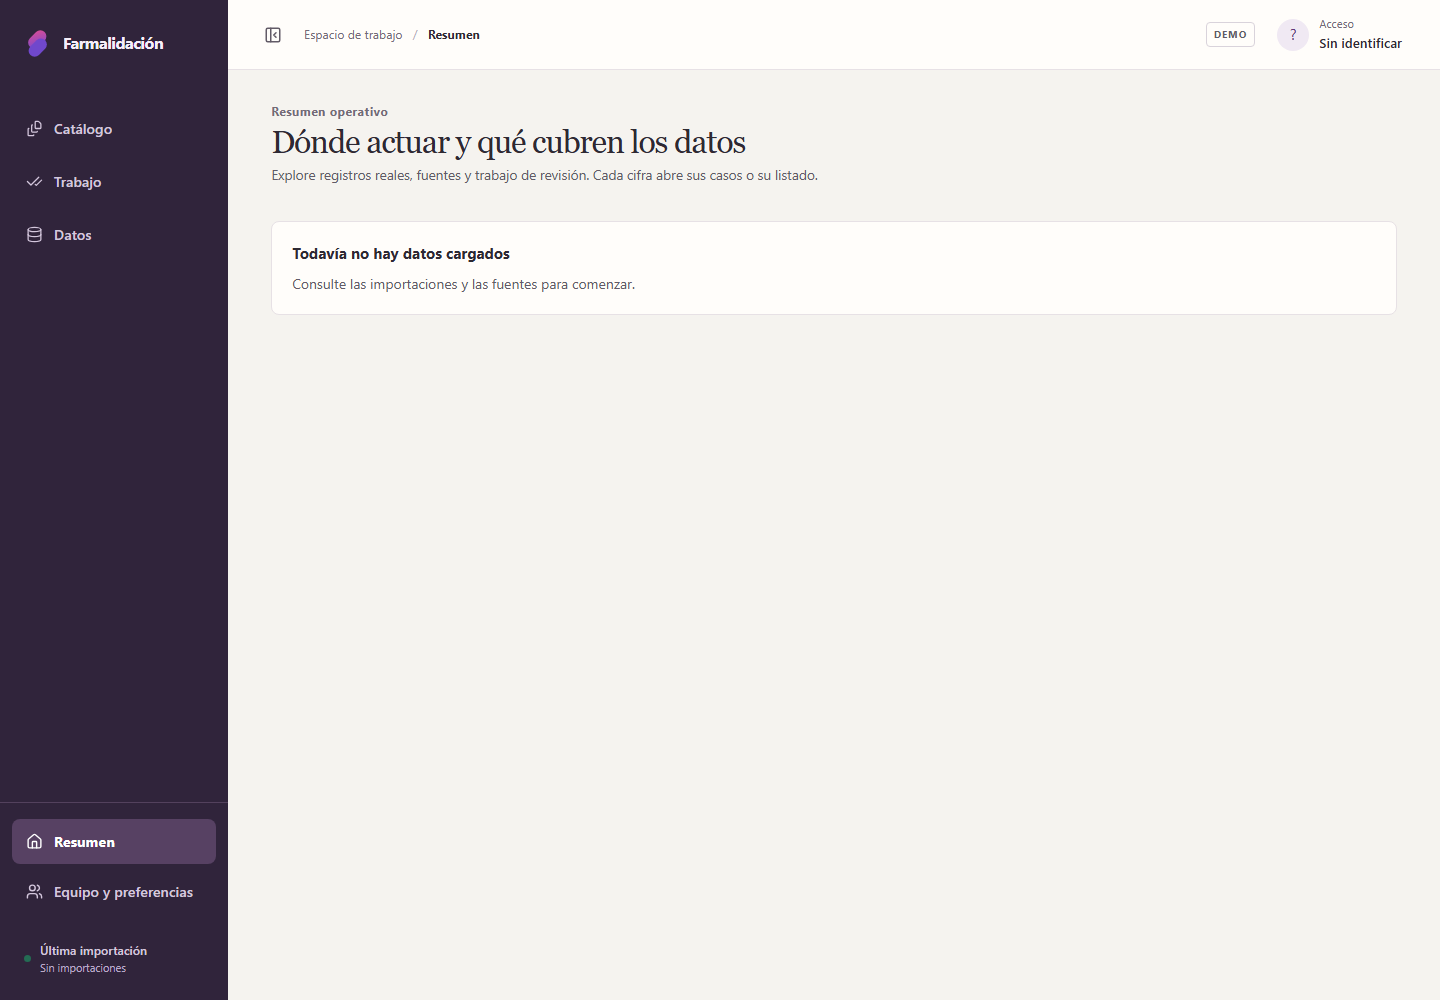
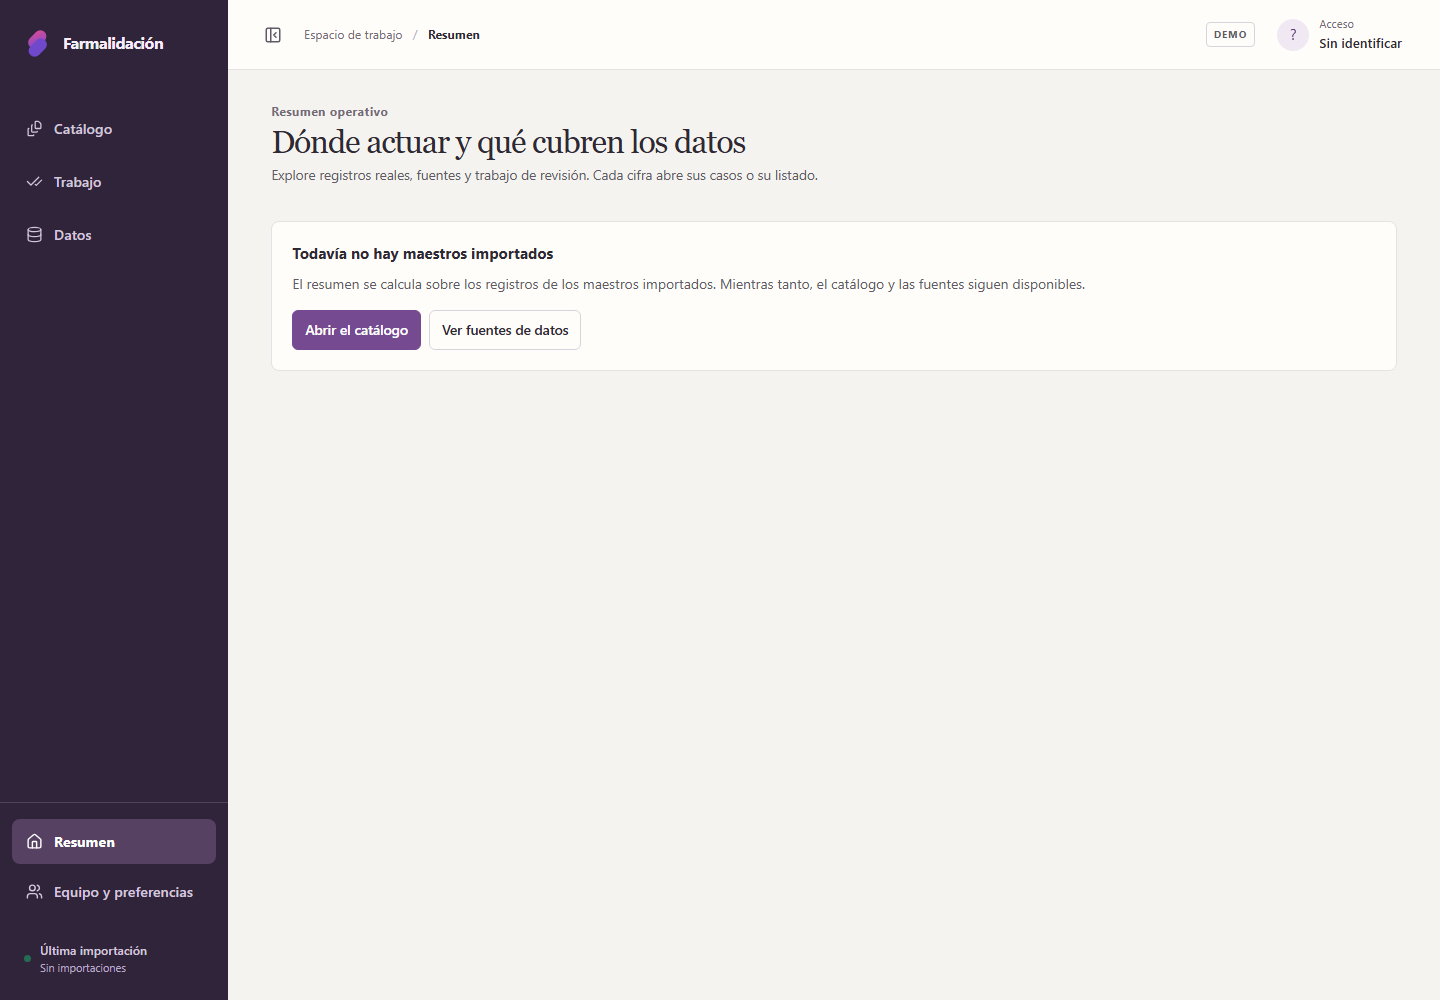
Unificar cabeceras, retornos y mensajes de error
Las fichas de identidad y de revisión comparten tipografía de título y
enlace de retorno. Los botones-enlace dejan de subrayarse. Los mensajes
genéricos del servidor HTTP («Not Found»…) se traducen antes de llegar a
la interfaz, la ficha no encontrada usa el estado de error común y el
resumen explica que se calcula sobre los maestros importados y ofrece
salidas al catálogo y a las fuentes.

Changed region(s): [[0.1875, 0.248, 0.75, 0.372]]

diff --git a/validador-fichas-tecnicas-repo-kit/frontend/src/api/client.ts b/validador-fichas-tecnicas-repo-kit/frontend/src/api/client.ts
@@ -73,6 +73,16 @@ export class ApiError extends Error {
   }
 }
 
+/**
+ * Mensajes por defecto del servidor HTTP, en inglés y sin contexto: aparecen
+ * cuando la ruta no existe en el backend desplegado, no cuando falta un dato.
+ */
+const GENERIC_HTTP_DETAILS: Record<string, string> = {
+  'Not Found': 'Este servicio no está disponible en el servidor actual.',
+  'Method Not Allowed': 'El servidor actual no admite esta operación.',
+  'Internal Server Error': 'Se ha producido un error inesperado en el servidor.',
+}
+
 async function request<T>(path: string, init?: RequestInit, publicRequest = false, timeoutMs = 30_000): Promise<T> {
   const baseUrl = requireApiBaseUrl()
   const controller = new AbortController()
@@ -97,7 +107,7 @@ async function request<T>(path: string, init?: RequestInit, publicRequest = fals
     let detail = 'Se ha producido un error inesperado.'
     try {
       const body = (await response.json()) as { detail?: string }
-      if (body.detail) detail = body.detail
+      if (body.detail) detail = GENERIC_HTTP_DETAILS[body.detail] ?? body.detail
     } catch {
       // Un cuerpo ilegible no debe ocultar el código de estado.
     }

diff --git a/validador-fichas-tecnicas-repo-kit/frontend/src/screens/DashboardScreen.tsx b/validador-fichas-tecnicas-repo-kit/frontend/src/screens/DashboardScreen.tsx
@@ -97,8 +97,9 @@ export function DashboardScreen() {
         description='Explore registros reales, fuentes y trabajo de revisión. Cada cifra abre sus casos o su listado.' />
       <AsyncBoundary loading={loading} error={error}
         empty={Boolean(data && data.total_records === 0 && !entityType && !sourceType && data.quarantined === 0 && data.diagnostics === 0)}
-        emptyTitle='Todavía no hay datos cargados'
-        emptyDetail='Consulte las importaciones y las fuentes para comenzar.'>
+        emptyTitle='Todavía no hay maestros importados'
+        emptyDetail='El resumen se calcula sobre los registros de los maestros importados. Mientras tanto, el catálogo y las fuentes siguen disponibles.'
+        emptyAction={<div className='state__actions'><a className='button button--primary' href='#/fichas'>Abrir el catálogo</a>{canReadSources && <a className='button' href='#/datos/fuentes'>Ver fuentes de datos</a>}</div>}>
         {data && <>
           <section className='dashboard-priorities' aria-label='Prioridades'>
             <h2>Atención ahora</h2>

diff --git a/validador-fichas-tecnicas-repo-kit/frontend/src/studio.css b/validador-fichas-tecnicas-repo-kit/frontend/src/studio.css
@@ -664,7 +664,6 @@ select option { color: var(--ink); background: var(--surface); }
 .catalog-summary__values dt { color: var(--ink-faint); font-size: .75rem; margin-bottom: 5px; }
 .catalog-summary__values dd { margin: 0; font-size: 1rem; }
 .app-shell .catalog-editor[hidden], .app-shell .catalog-summary[hidden] { display: none; }
-.app-shell .catalog-record .screen__head h1 { font-family: var(--font-ui); font-size: 1.5rem; font-weight: 600; letter-spacing: -.025em; }
 .app-shell .catalog-cima, .app-shell .review-workspace { color: var(--ink); }
 .app-shell :is(.catalog-cima__text, .source-group, .record-dialog, .record-dialog__header, .catalog-relations li button, .sources__evidence, .reviewer-select__trigger, .reviewer-select__menu) { background: var(--surface); color: var(--ink); }
 .app-shell :is(.catalog-cima__section, .field-row, .queue-toolbar, .queue-filters, .catalog-relations__empty) { background: var(--canvas); color: var(--ink); }

diff --git a/validador-fichas-tecnicas-repo-kit/frontend/src/ui/components.css b/validador-fichas-tecnicas-repo-kit/frontend/src/ui/components.css
@@ -155,3 +155,11 @@ code, kbd, .mono { font-family: var(--font-mono); font-size: .92em; font-variant
 @media (prefers-reduced-motion: reduce) {
   .app-shell .button, .segmented__option, .app-shell .table tbody tr { transition: none; }
 }
+
+.app-shell .state__actions { display: flex; flex-wrap: wrap; gap: var(--space-2); margin-top: var(--space-2); }
+.app-shell .state--error .button { color: var(--ink); }
+
+/* Enlaces con forma de botón y retorno a la lista. */
+.app-shell a.button { text-decoration: none; }
+.app-shell .button.back { justify-self: start; min-height: 28px; margin-left: calc(var(--space-2) * -1); padding-inline: var(--space-2); color: var(--ink-soft); }
+.app-shell .button.back:hover:not(:disabled) { color: var(--ink); background: var(--line-soft); }

diff --git a/validador-fichas-tecnicas-repo-kit/frontend/src/screens/ReviewScreen.tsx b/validador-fichas-tecnicas-repo-kit/frontend/src/screens/ReviewScreen.tsx
@@ -363,12 +363,12 @@ export function ReviewScreen({
   if (error !== null && record === null) {
     return (
       <div className='screen'>
-        <p className='alert alert--error' role='alert'>
-          {error}
-        </p>
-        <button type='button' className='button' onClick={() => navigate(backTo)}>
-          Volver al listado
-        </button>
+        <div className='state state--error' role='alert'>
+          <p>{error}</p>
+          <button type='button' className='button' onClick={() => navigate(backTo)}>
+            Volver al listado
+          </button>
+        </div>
       </div>
     )
   }
